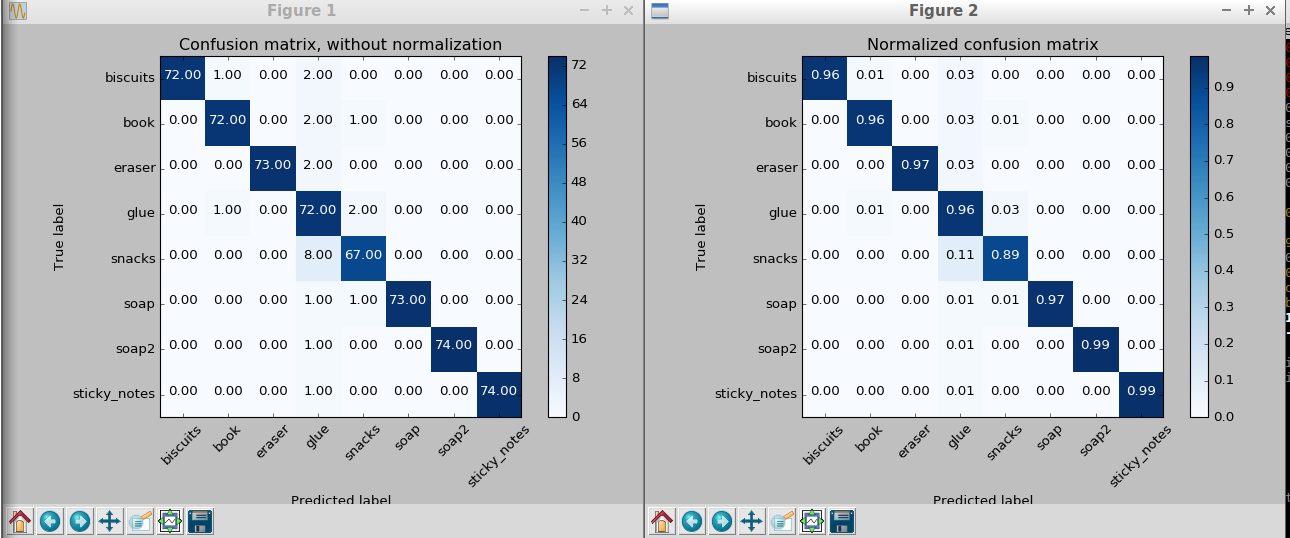
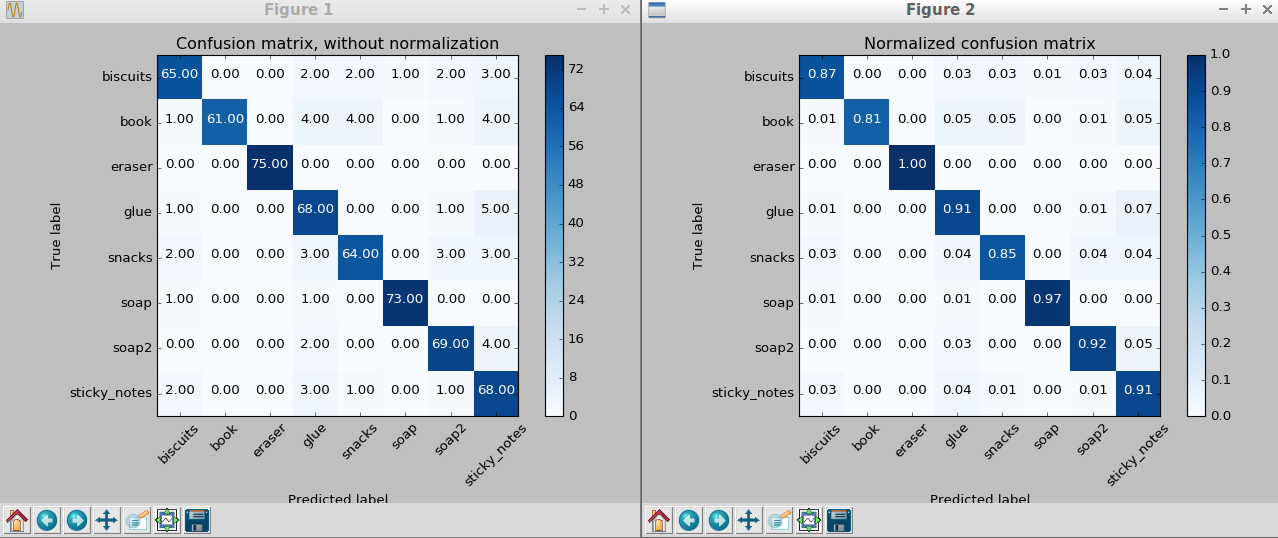
Adjusted writeup to reflect changes

diff --git a/udacity/RND/projects/perception-project/pr2_robot/scripts/writeup_report.md b/udacity/RND/projects/perception-project/pr2_robot/scripts/writeup_report.md
@@ -21,7 +21,7 @@ Applied the snippet from Lesson 17:
 # [START Statistical outlier filter]
 fil = pcl_data.make_statistical_outlier_filter()
 fil.set_mean_k(5)
-fil.set_std_dev_mul_thresh(1.0)
+fil.set_std_dev_mul_thresh(0.5)
 
 cloud_filtered = fil.filter()
 # [END Statistical outlier filter]
@@ -40,7 +40,7 @@ Some noise obviously was removed, but some still remains.
 vox = cloud_filtered.make_voxel_grid_filter()
 
 # downsample point cloud
-leaf_size = 0.003
+leaf_size = 0.0028
 vox.set_leaf_size(leaf_size, leaf_size, leaf_size)
 cloud_filtered = vox.filter()
 ```
@@ -93,7 +93,7 @@ extracted_outliers = cloud_filtered.extract(inliers, negative=True)
 ```
 ![segmented](./misc/segmented.png)
 
-Clustering. Guess what, just like in the exercise. The only difference was to adjust the clustering parameters , to account for the small `leaf_size`, and not to exclude any objects.
+Clustering. The only difference from the exercise was to adjust the clustering parameters , to account for the small `leaf_size`, and not to exclude any objects.
 
 ```
 # [START Clustering]
@@ -136,11 +136,14 @@ cluster_cloud.from_list(color_cluster_point_list)
 
 The implementation process was the same as in the exercise. Besides making sure to use HSV instead of RGB. `chists = compute_color_histograms(ros_cluster, using_hsv=True)` , the key differences / parameters that seemingly worked for all three datasets:
 
-- 75 samples per item `for i in range(75):`
-- bin size of 32 `bins = 32` for both colors and normals
+- 75 samples per item 
+- bin size of 128 for colors
+- bin size of 32 for normals
 - LinearSVC classifier `clf = svm.LinearSVC()`
 
-The accuracy on average was above 0.90, seemed satisfactory.
+An increase in bin size for colors vs normals seemed to prioritize one over another for the recognition process, but this is just a "feeling", one would have to actually explore this further to see if the correlation is there.
+
+The accuracy on average was around 0.90, deemed satisfactory.
 ![histograms](./misc/histograms.png)
 <sub> Sidenote - took me a couple hours to figure out a problem after having high accuracy in confusion matrices, yet in RVIZ the results were way off, classifying half of the items as biscuits. Turns out I was extracting the features with `catkin_ws/src/sensor_stick` code, which was still using RGB, all the time thinking I had symlinked the corrected project files... </sub>
 
